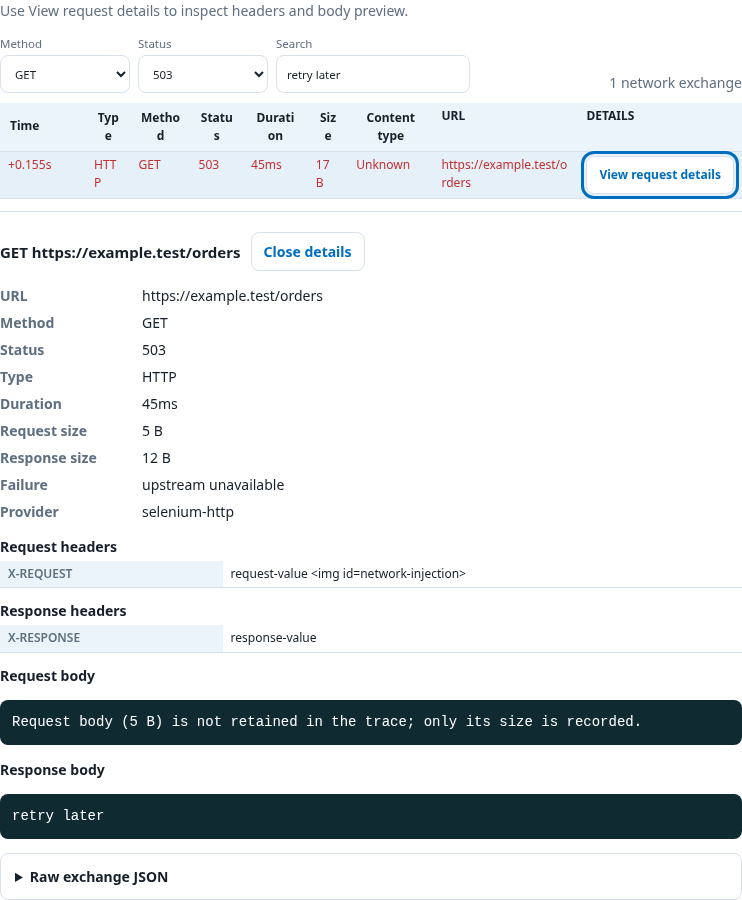
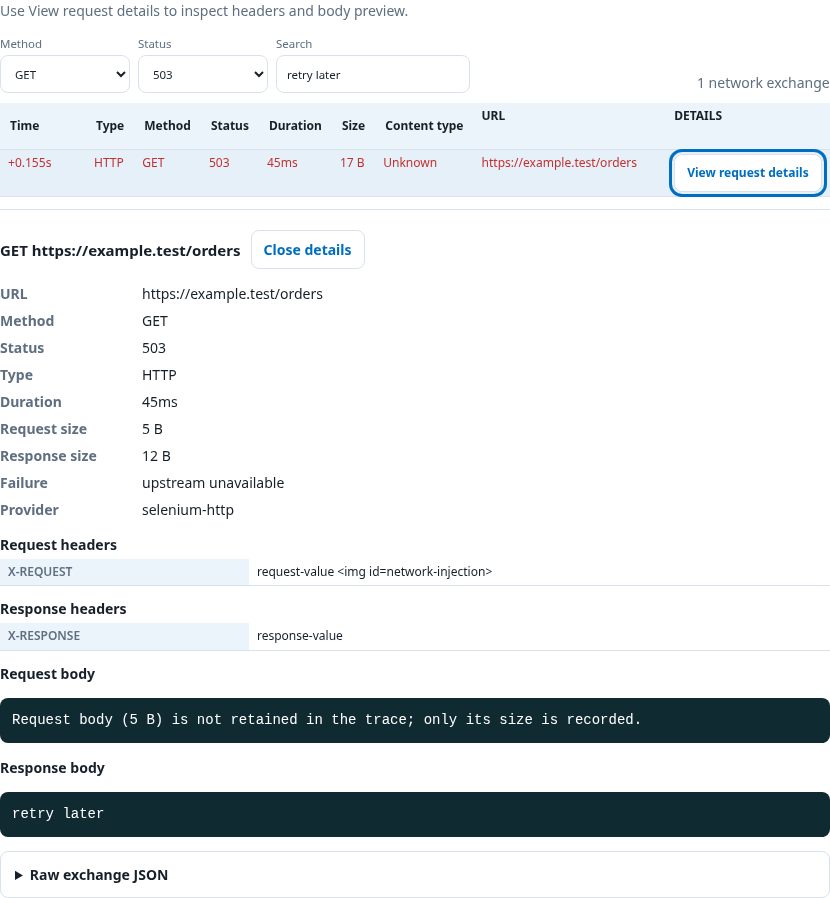
fix(trace-viewer): keep network and artifact cells on one line; run acceptance on viewer resource changes

diff --git a/shaft-engine/src/main/resources/META-INF/shaft/trace-viewer/viewer.css b/shaft-engine/src/main/resources/META-INF/shaft/trace-viewer/viewer.css
@@ -81,3 +81,7 @@ dt{font-weight:700;color:var(--shaft-text-muted)}dd{margin:0;overflow-wrap:anywh
 .table-scroll{overflow-x:auto;max-width:100%}
 .network-table{table-layout:auto}
 .network-table td:last-child button{white-space:nowrap}
+.network-table th,.network-table td{overflow-wrap:normal;word-break:normal;white-space:nowrap}
+.network-table td:nth-child(8){white-space:normal;overflow-wrap:anywhere;min-width:16em}
+.artifact-table th,.artifact-table td:nth-child(5){white-space:nowrap}
+.artifact-table td:nth-child(7){min-width:12em}

diff --git a/shaft-engine/src/test/java/com/shaft/tools/io/internal/TraceViewerBrowserAcceptanceTest.java b/shaft-engine/src/test/java/com/shaft/tools/io/internal/TraceViewerBrowserAcceptanceTest.java
@@ -293,6 +293,9 @@ public class TraceViewerBrowserAcceptanceTest {
                     "An uncaptured request body must say what was recorded instead.");
             Assert.assertTrue(page.locator("#network-body-truncated").isHidden());
             Assert.assertTrue(page.locator("#network-detail-general").textContent().contains("upstream unavailable"));
+            Assert.assertEquals(page.locator("#network-rows tr td").nth(1)
+                    .evaluate("cell => getComputedStyle(cell).whiteSpace + '/' + getComputedStyle(cell.closest('table')).tableLayout"),
+                    "nowrap/auto", "Short network columns must not wrap mid-token.");
             page.locator("#network-panel").screenshot(new com.microsoft.playwright.Locator.ScreenshotOptions()
                     .setPath(sibling(screenshot, "-network")));
             @SuppressWarnings("unchecked")
